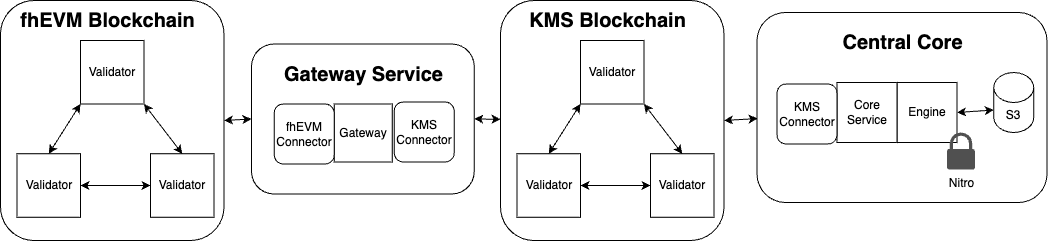
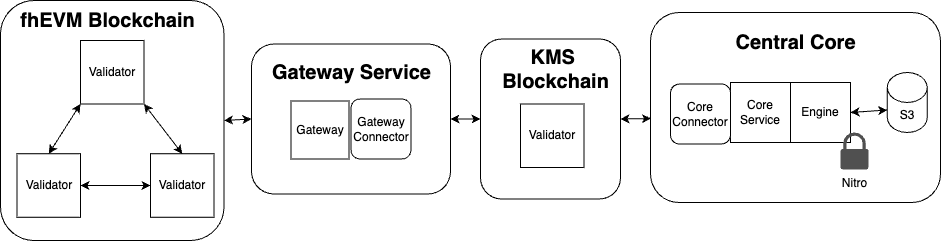
refactor: updates to diagrams

diff --git a/design.md b/design.md
@@ -3,9 +3,11 @@
 The following describes how the KMS is used in conjunction with an fhEVM blockchain, including the external components needed.
 While the KMS can be used with multiple fhEVMs, for simplicity, we will in the following document assume there is only a single fhEVM.
 
-At the highest level, the system consists of two subsystems: an *fhEVM blockchain* and a *KMS*. The KMS in turn consists of a *KMS blockchain* and a *KMS core*. These are in turn composed of the following components, which we illustrate in the pictures below
+At the highest level, the system consists of two subsystems: an *fhEVM blockchain* and a *KMS*. The KMS in turn consists of a *KMS blockchain* and a *KMS core*. These are in turn composed of the following components, which we illustrate in the pictures below where we use conjoined boxes to mean that components are part of the same Docker image. 
 ![Centralized KMS system](central.png "Centralized KMS system")
 ![Threshold KMS system](threshold.png "Threshold KMS system")
+
+We now briefly outline each of these components along with their constituents:
 
 - *fhEVM validator*: The validator node running the fhEVM blockchain.
 
